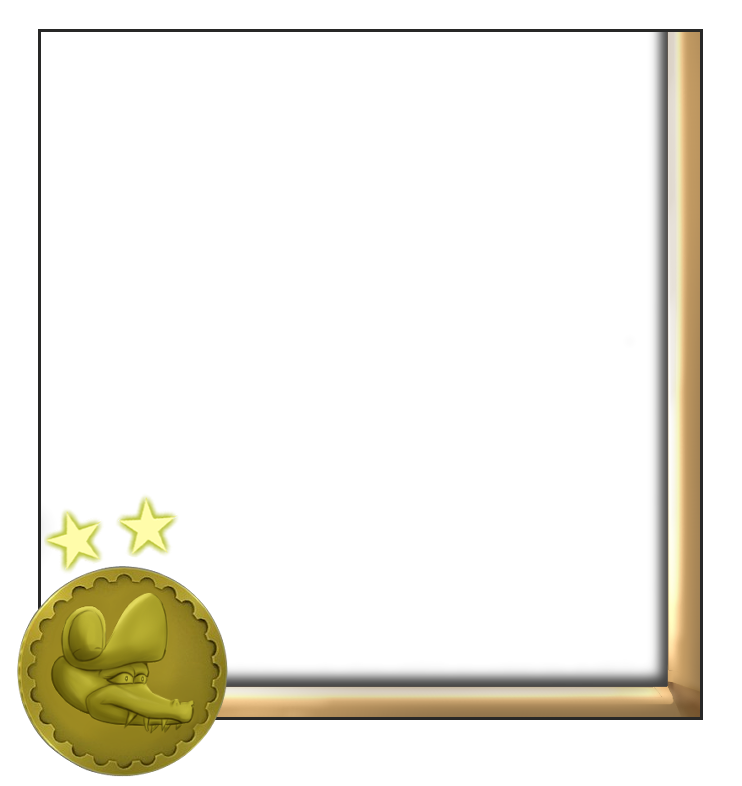
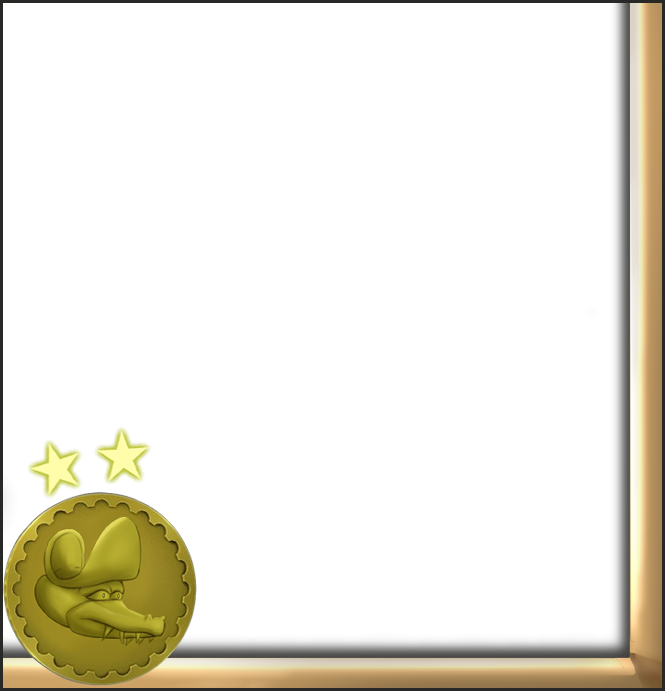
Modified mini borders

Changed region(s): [[0.0, 0.0, 1.0, 1.0]]

diff --git a/blueprints/images.py b/blueprints/images.py
@@ -21,7 +21,7 @@ def characterArt(arttype, charID, artID):
   if arttype == 'regular':
     size = (1106, 1482)
   elif arttype == 'mini':
-    size = (742, 786)
+    size = (665, 691)
   else:
     return
 
